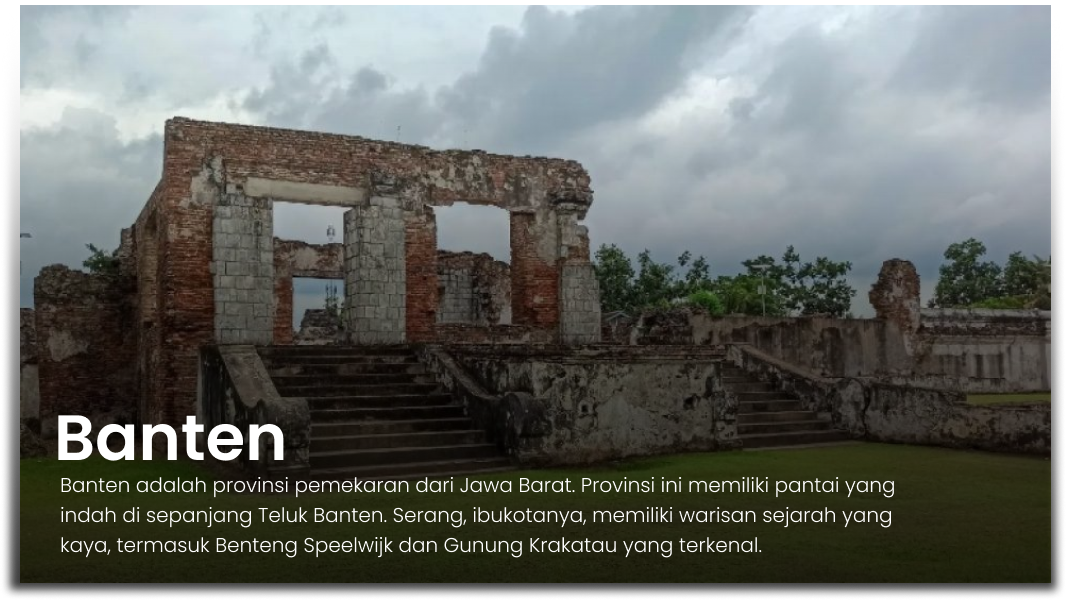
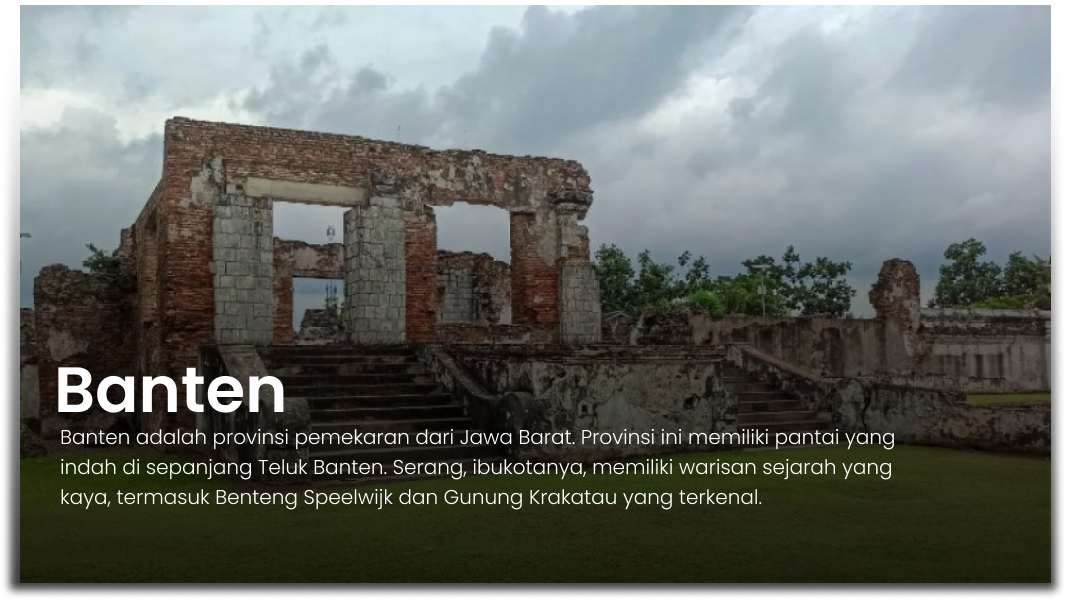
style(fix styling for preview images): fix responsive styling for preview images

Changed region(s): [[0.031, 0.6, 0.8358, 0.87], [0.0619, 0.9, 0.712, 0.93]]

diff --git a/src/components/Slider.jsx b/src/components/Slider.jsx
@@ -26,7 +26,7 @@ export default function Slider({ slides }) {
                 ))}
             </div>
 
-            <div className="absolute top-0 h-full w-full justify-between items-center flex text-white text-3xl px-4 sm:px-6 ">
+            <div className="absolute bottom-3 h-full w-full justify-between items-center flex text-white text-3xl px-4 sm:px-6 ">
                 <button onClick={previousSlide} aria-label="Previous Slide">
                     <FaChevronLeft />
                 </button>
@@ -35,14 +35,14 @@ export default function Slider({ slides }) {
                 </button>
             </div>
 
-            <div className="absolute bottom-0 py-4 flex justify-center gap-3 w-full">
+            <div className="absolute bottom-0 py-3 lg:py-6 flex justify-center gap-2 lg:gap-3 w-full">
                 {slides.map((s, i) => (
                     <div
                         onClick={() => {
                             setCurrent(i);
                         }}
                         key={"circle" + i}
-                        className={`rounded-full w-2 h-2 cursor-pointer  ${i === current ? "bg-white" : "bg-slate-500"
+                        className={`rounded-full w-1 h-1 lg:w-2 lg:h-2 cursor-pointer  ${i === current ? "bg-white" : "bg-slate-500"
                             }`}
                         role="button"
                         aria-label={`Go to Slide ${i + 1}`}
